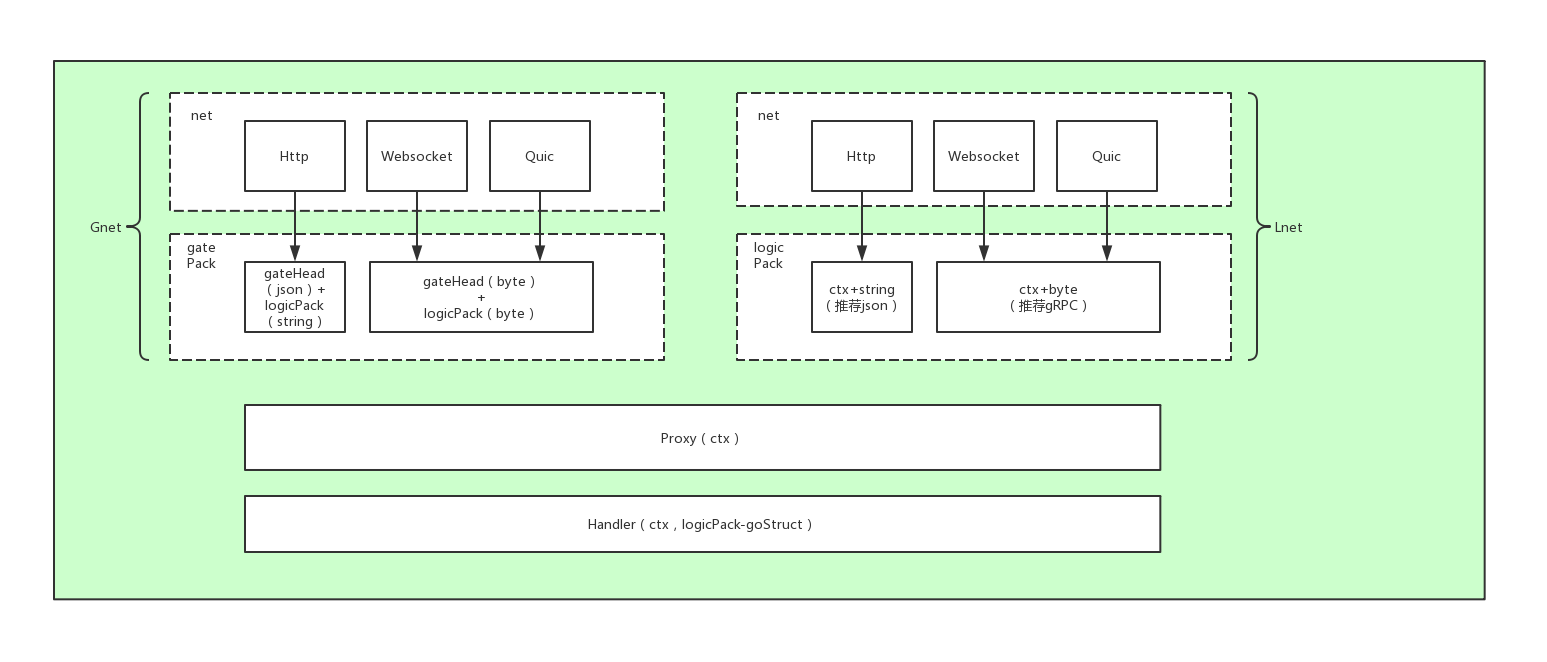
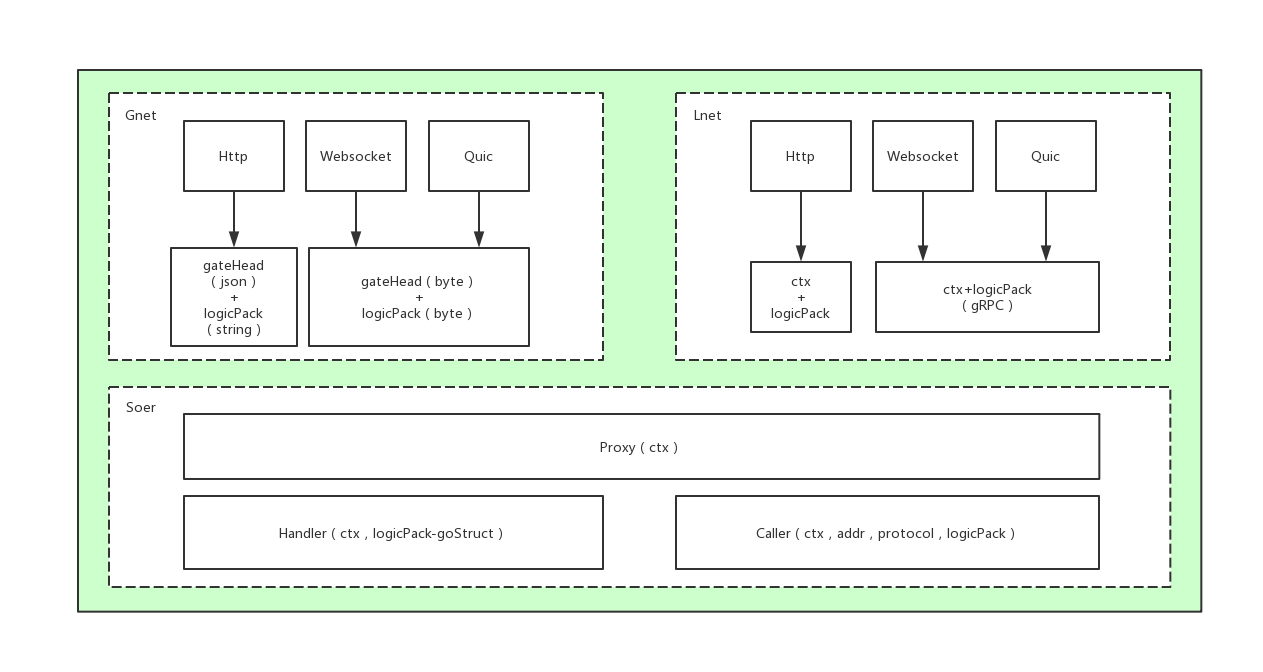
perf:更改架构,新增caller概念

diff --git a/pkg/so/caller.go b/pkg/so/caller.go
@@ -1,0 +1,5 @@
+package so
+
+// Caller handler的远程调用封装
+type Caller interface {
+}

diff --git a/README.md b/README.md
@@ -26,12 +26,12 @@ go语言服务端框架/工具集，适用于网关、游戏、网页等。
 
 ## 三模块
 - gnet 
-    - net + gatePack + proxy
+    - net + gatePack + proxy + caller
 - lnet 
-    - net + logicPack + proxy
-- biz 
-    - handler + proxy
-
+    - net + logicPack + proxy + caller
+- soer 
+    - handler + proxy + caller
+    
 # 注意
 - 【建议】不要用ctx来传参，仅存（打印日志时抓现场用）或仅取（获取框架层保存的固定字段）
 - 【强制】模块间不能共享内存，必须通过处理器相互调用
